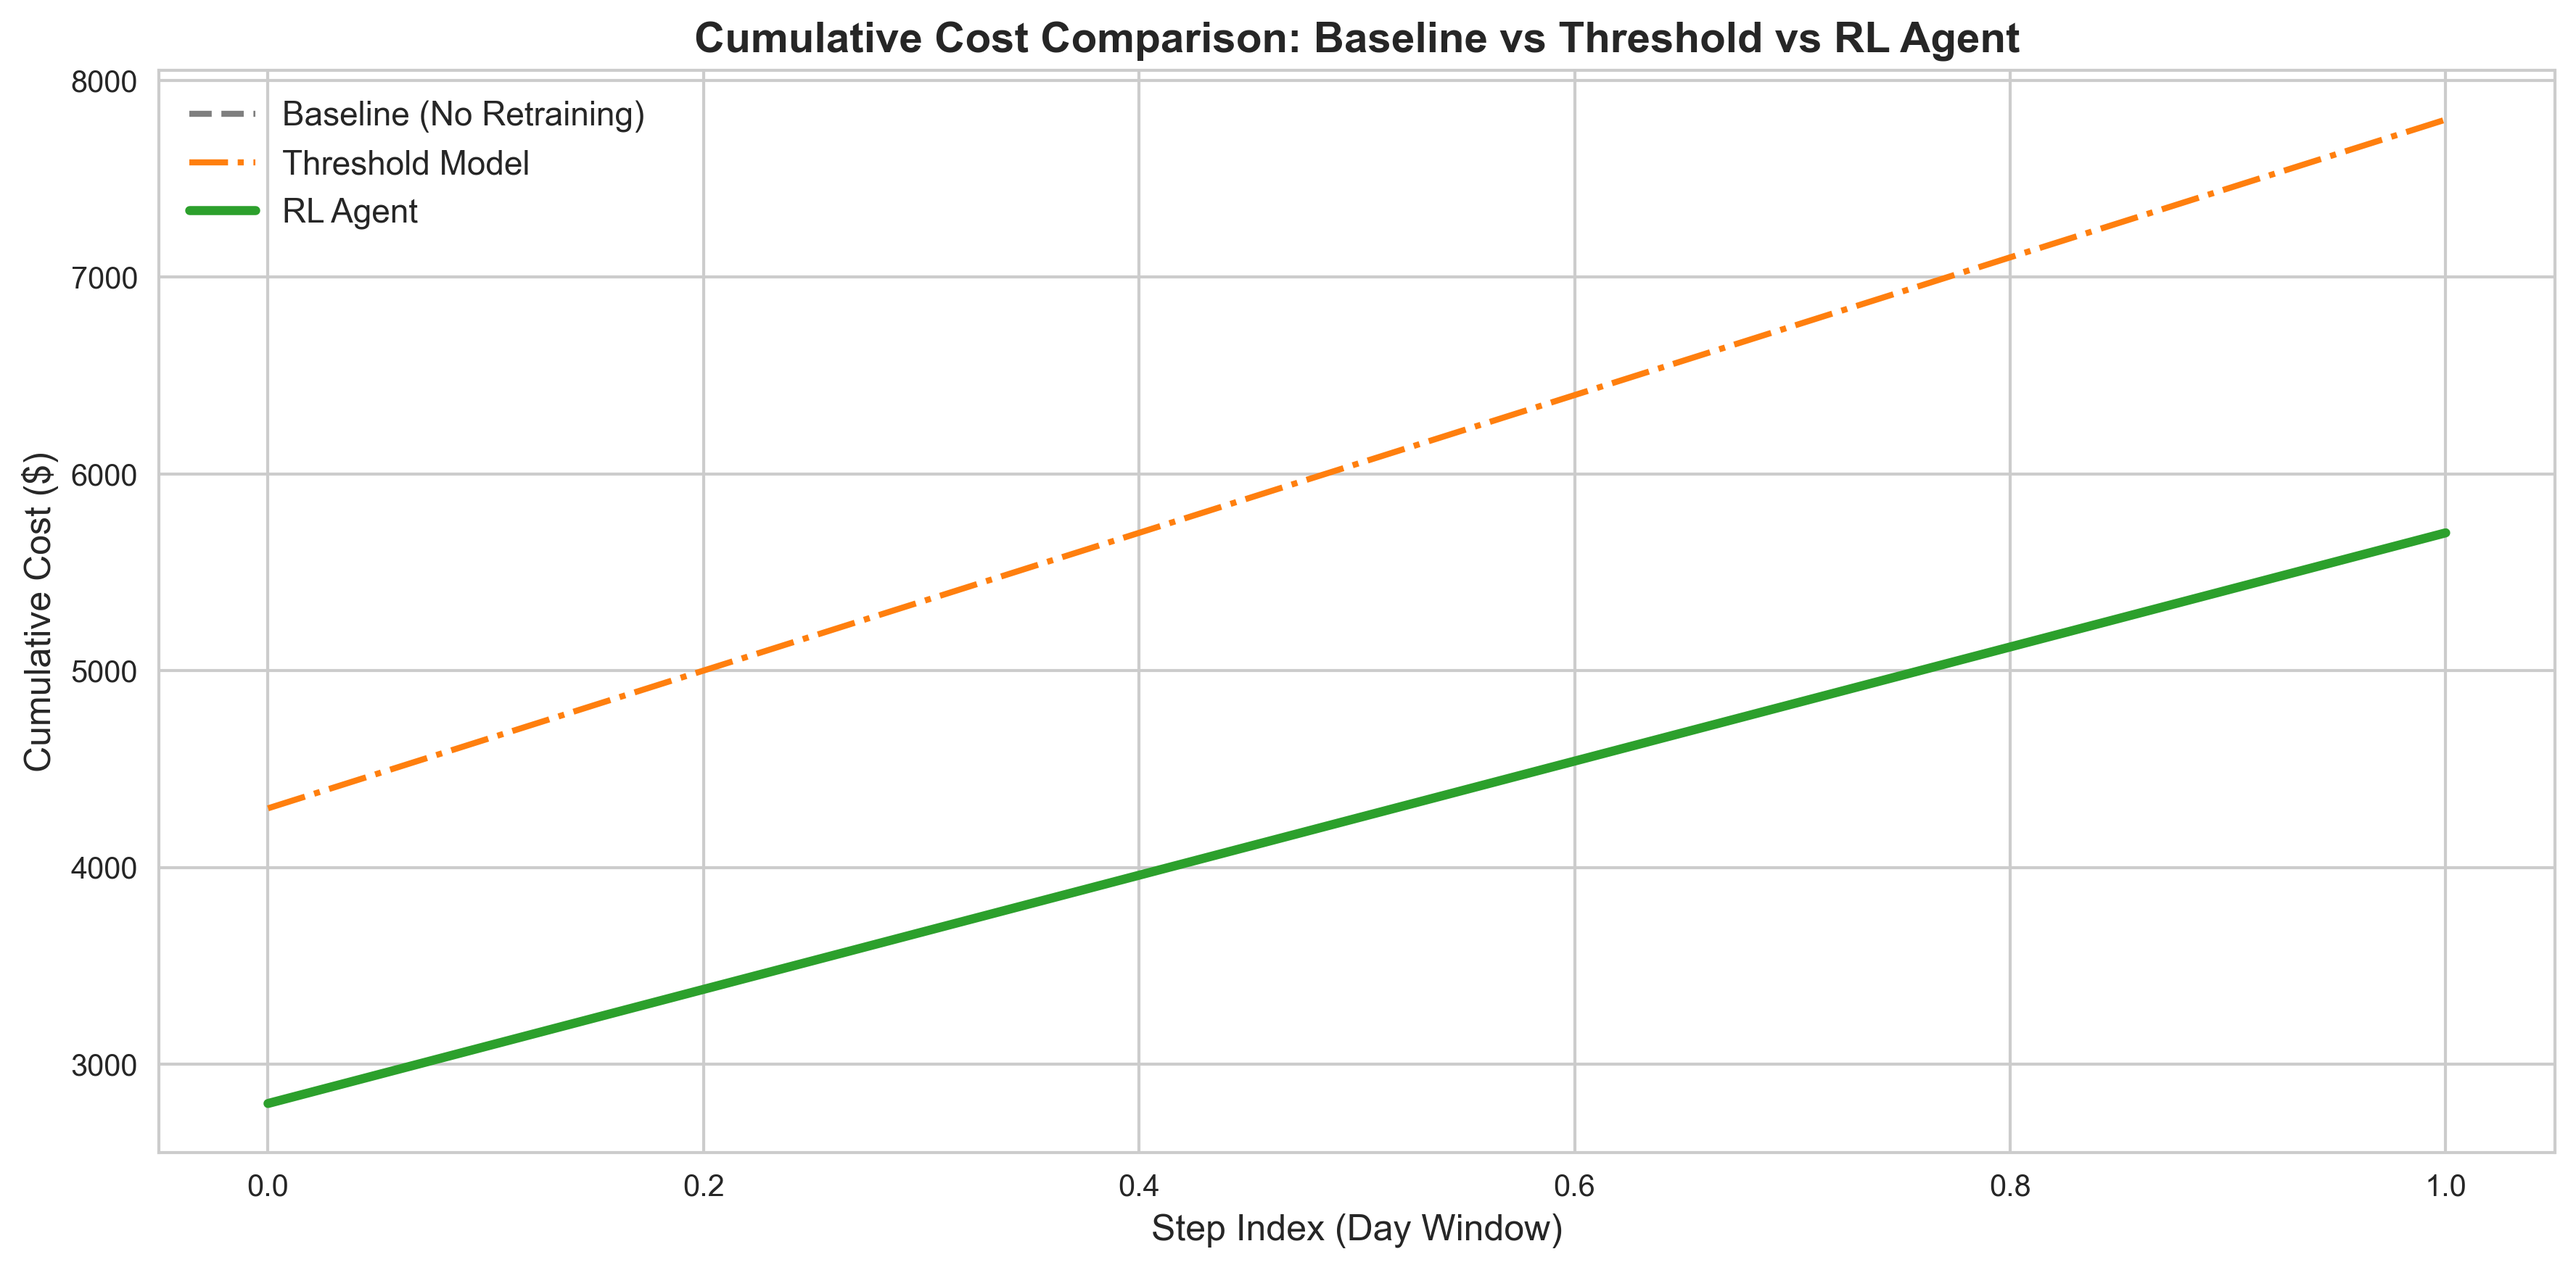
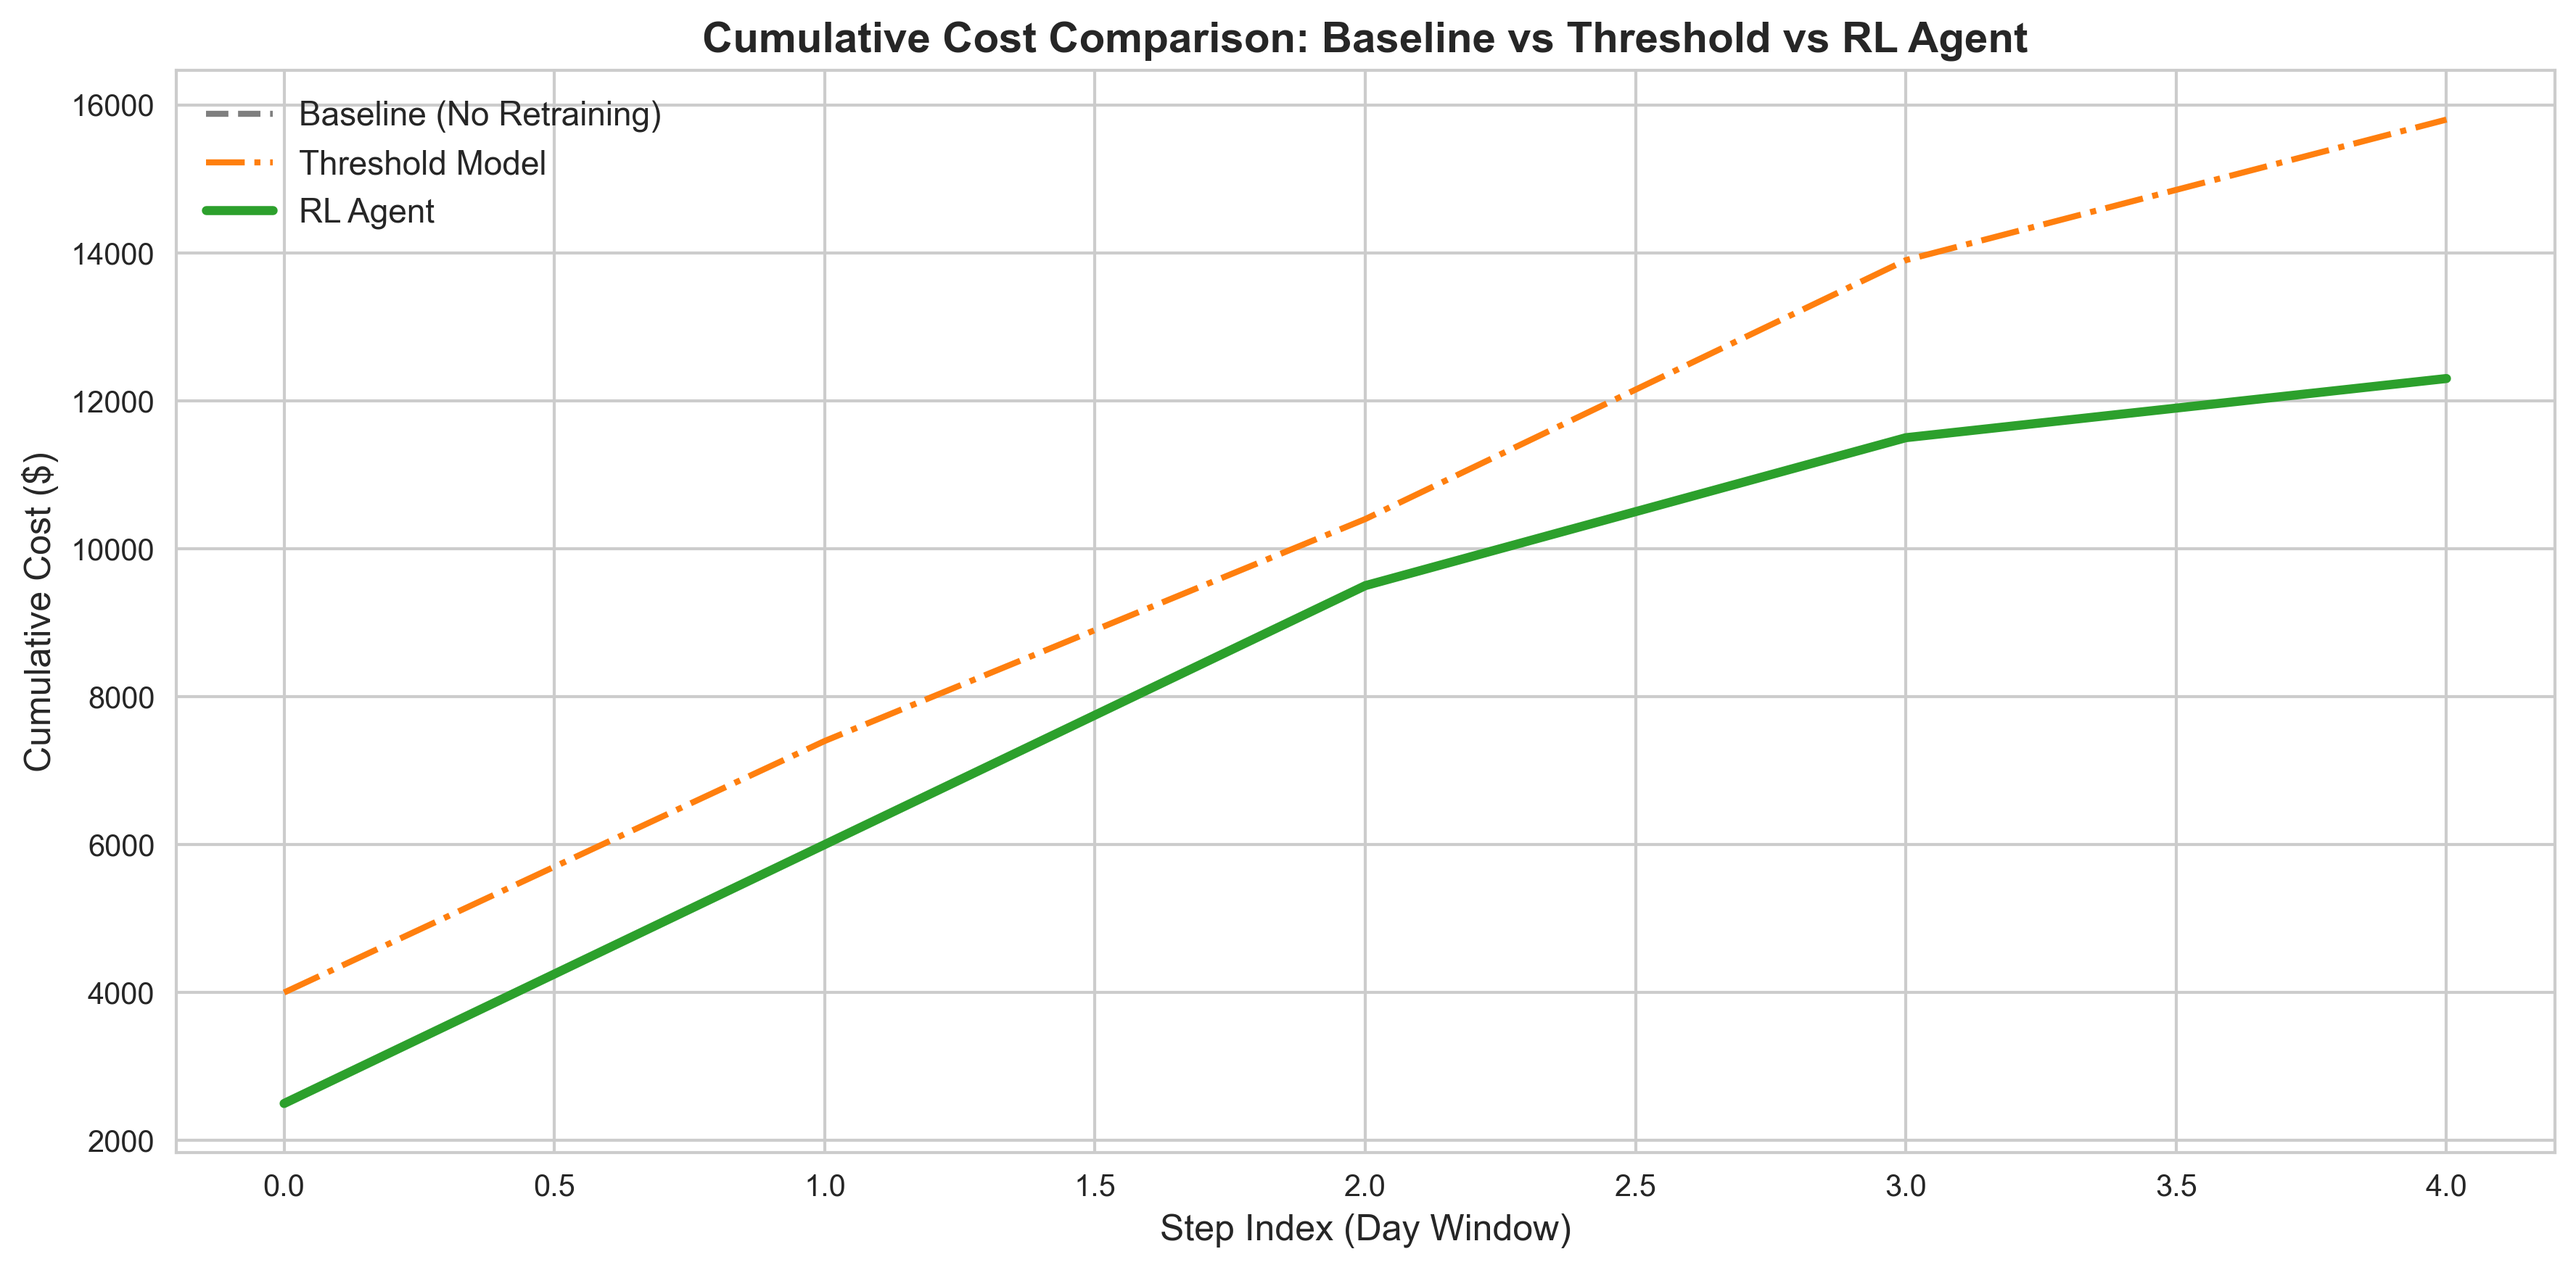
added an implementation plan

diff --git a/implementation_plan-fixes.md b/implementation_plan-fixes.md
@@ -1,0 +1,136 @@
+# RL Agent 0 Retrains — Root Cause Analysis & Fix Plan
+
+## Problem
+The RL agent consistently reports **0 retrains** during evaluation, meaning it never triggers Action 1 (Retrain) on any step. The evaluation cost equals the baseline (no retrain) cost exactly.
+
+---
+
+## Root Causes Found (3 compounding issues)
+
+### Root Cause 1 — Train/Eval Data Mismatch (State Generalisation Failure)
+
+The agent was **trained** on `streaming_test_data.csv` (105 unique days → **10 steps**),  
+but **evaluated** on `streaming_eval_data.csv` (55 unique days → **only 5 steps**).
+
+The Q-table has entries for **10 states** (out of 27 possible). The states seen during evaluation are:
+
+| Eval Step | State Observed | In Q-Table? | Q-Table Action |
+|-----------|---------------|-------------|----------------|
+| 0 | `(2, 2, 0)` | ✅ Yes | **DO NOTHING** |
+| 1 | `(2, 2, 0)` | ✅ Yes | **DO NOTHING** |
+| 2 | `(1, 2, 1)` | ✅ Yes | **DO NOTHING** |
+| 3 | `(0, 1, 1)` | ❌ Missing | Defaults to **DO NOTHING** |
+| 4 | `(2, 0, 1)` | ❌ Missing | Defaults to **DO NOTHING** |
+
+**The 3 states that DO prefer retrain — `(0,2,0)`, `(0,2,1)`, `(1,2,2)` — never appear in eval data.** The agent simply never encounters a state where it learned to retrain.
+
+> [!CAUTION]
+> **Fix**: Train on `streaming_eval_data.csv` (or combined data), OR use the same dataset for both train and eval. The RL environment must be trained on states that appear in evaluation.
+
+---
+
+### Root Cause 2 — TEC is Too High Relative to Episode Length
+
+`TEC = $1500`, `REWARD_SCALE = 4000`, so a single retrain = **−0.375 reward units**.  
+The episode has only 5–10 steps. The cumulative error savings from a retrain can never compensate for the upfront TEC penalty in such a short horizon.
+
+This means even if the agent DID encounter the right states, retraining would still be penalised more than rewarded.
+
+Evidence: Even on training data, the Q-values for retrain are barely above no-op (margin of 0.01–0.12). The agent learned that retraining is almost never worth it given the current cost structure.
+
+> [!IMPORTANT]
+> **Fix options (pick one)**:
+> - Reduce `TEC` (e.g. to `$300`) so retrain penalty is smaller relative to error savings
+> - Increase `REWARD_SCALE` (e.g. to `400`) to amplify the error-cost signal
+> - Increase episode length (more steps = more time to recover retrain cost)
+
+---
+
+### Root Cause 3 — Q-table Severely Under-Trained (Only 10 States Visited)
+
+Only **10 out of 27 possible states** were ever visited during 20 training episodes. The Q-table file is only **939 bytes** — trivially small. The agent never explored 17 states, including key "high-drift + high-MAE + old-age" states where retraining would be most beneficial.
+
+This is caused by:
+- Only 20 training episodes (`N_EPISODES = 20`)
+- Short episodes (10 steps each = 200 total transitions)
+- `EPSILON_DECAY = 0.023` → epsilon hits `EPSILON_END = 0.05` at episode 20 exactly, meaning very little exploration time
+
+> [!IMPORTANT]
+> **Fix**: Increase `N_EPISODES` to at least 100–200, or increase `EPSILON_START` / slow down epsilon decay so the agent explores more states.
+
+---
+
+## Summary of Fixes
+
+| # | File | Change | Why |
+|---|------|--------|-----|
+| 1 | `tabular_q_agent.py` | Change training data from `streaming_test_data.csv` → `streaming_eval_data.csv` | Ensure train/eval states overlap |
+| 2 | `shared_config.py` | Reduce `TEC` from `$1500` → `$300` OR reduce `REWARD_SCALE` | Make retrain cost recoverable |
+| 3 | `shared_config.py` | Increase `N_EPISODES` from `20` → `100` | More training coverage |
+| 4 | `shared_config.py` | Slow epsilon decay (e.g. `EPSILON_DECAY = 0.004`) | More state exploration |
+
+---
+
+## Proposed Changes
+
+### `shared_config.py`
+
+#### [MODIFY] [shared_config.py](file:///Users/jaenilparekh/Documents/cs50/intern-cummins/ml-models/shared_config.py)
+
+```diff
+- TEC = 1500              # Traditional Engineering Cost (per manual PyCaret run)
++ TEC = 300               # Traditional Engineering Cost (per manual PyCaret run)
+
+- N_EPISODES = 20          # Total training episodes
++ N_EPISODES = 100         # Total training episodes
+
+- EPSILON_DECAY = 0.023    # Linear decay per episode
++ EPSILON_DECAY = 0.004    # Slower decay — allow more exploration
+
+- REWARD_SCALE = 4000
++ REWARD_SCALE = 1000      # Tighter scale so error costs have stronger signal
+```
+
+---
+
+### `tabular_q_agent.py` (training block)
+
+#### [MODIFY] [tabular_q_agent.py](file:///Users/jaenilparekh/Documents/cs50/intern-cummins/ml-models/tabular_q_agent.py)
+
+```diff
+- df_train = pd.read_csv(os.path.join(data_dir, "streaming_test_data.csv"))
++ df_train = pd.read_csv(os.path.join(data_dir, "streaming_eval_data.csv"))
+```
+
+This ensures the agent trains on the same data distribution as evaluation.
+
+---
+
+## Verification Plan
+
+### After re-training the agent
+
+Run `python tabular_q_agent.py` and then `python evaluate_agent.py` and verify:
+
+1. Q-table has more than 10 states visited
+2. At least 1 retrain is triggered during evaluation
+3. `rl_agent_cost < baseline_cost` — the RL agent demonstrates value
+4. The comparison plot shows RL cost curve diverging from baseline
+
+### Automated check
+```bash
+cd ml-models
+source ../venv/bin/activate
+python tabular_q_agent.py && python evaluate_agent.py
+```
+
+---
+
+## Open Questions
+
+> [!NOTE]
+> **Q: Should we keep `TEC = $1500` in the cost model documentation or change it?**  
+> If `$1500` is the real-world cost, we may want to keep it as-is and instead just increase episode length and training time so the agent can properly learn the long-horizon benefit of retraining. The current setup has too few steps (5-10) to recover a $1500 upfront cost.
+>
+> **Q: Should the training use `streaming_test_data.csv` or `streaming_eval_data.csv`?**  
+> Ideally, training and evaluation should use different splits of the SAME distribution. Currently they use different files with different day ranges, causing the state mismatch.
